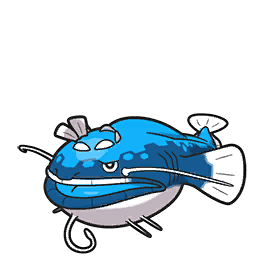
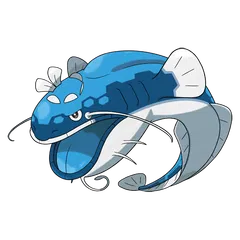
add dondozo, the Big Catfish

diff --git a/006-pgo/pgotypes.cpp b/006-pgo/pgotypes.cpp
@@ -4478,6 +4478,11 @@ static const species sdex[] = {
   {  975, "Cetitan", TYPE_ICE, TYPECOUNT, 208, 123, 347, "Cetoddle",
 		{ &ATK_Ice_Shard, &ATK_Tackle, &ATK_Powder_Snow, &ATK_Body_Slam, &ATK_Avalanche, &ATK_Heavy_Slam, },
 		true, false, false, { }, species::CAT_NORMAL, 50, nullptr, species::EVOL_NOITEM, },
+  // 976 is veluza
+  // the Big Catfish
+  {  977, "Dondozo", TYPE_WATER, TYPECOUNT, 176, 178, 312, nullptr,
+		{ &ATK_Water_Gun, &ATK_Waterfall, &ATK_Hydro_Pump, &ATK_Outrage, &ATK_Surf, &ATK_Liquidation, },
+    false, false, false, { }, species::CAT_NORMAL, 75, nullptr, species::EVOL_NOITEM, },
   {  978, "Tatsugiri", TYPE_DRAGON, TYPE_WATER, 226, 166, 169, nullptr,
 		{ &ATK_Take_Down, &ATK_Water_Gun, &ATK_Outrage, &ATK_Surf, &ATK_Hydro_Pump, &ATK_Muddy_Water, },
 		false, false, false, { }, species::CAT_NORMAL, 75, nullptr, species::EVOL_NOITEM, },
